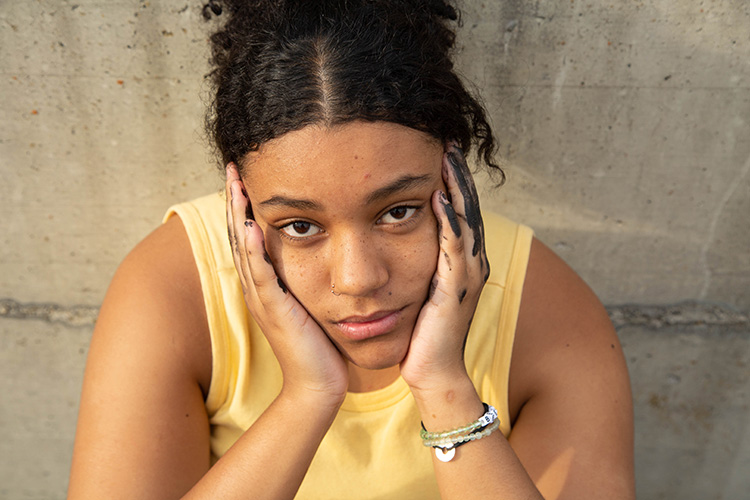
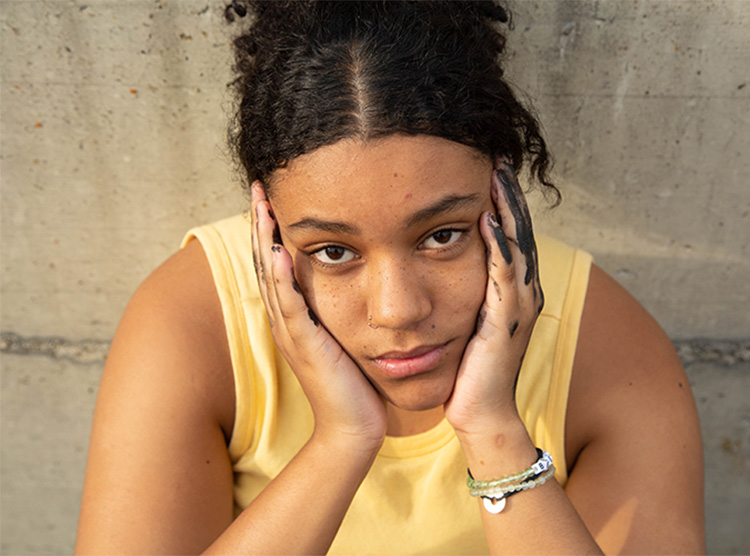
Changements/corrections img

diff --git a/css/styles.css b/css/styles.css
@@ -71,7 +71,9 @@ header img,
 
 .round-img {
   border-radius: 18px;
-  max-width: 250px;
+  width: 280px;
+  height: 340px;
+  object-fit: cover;
   margin: 0 0 40px;
 }
 
